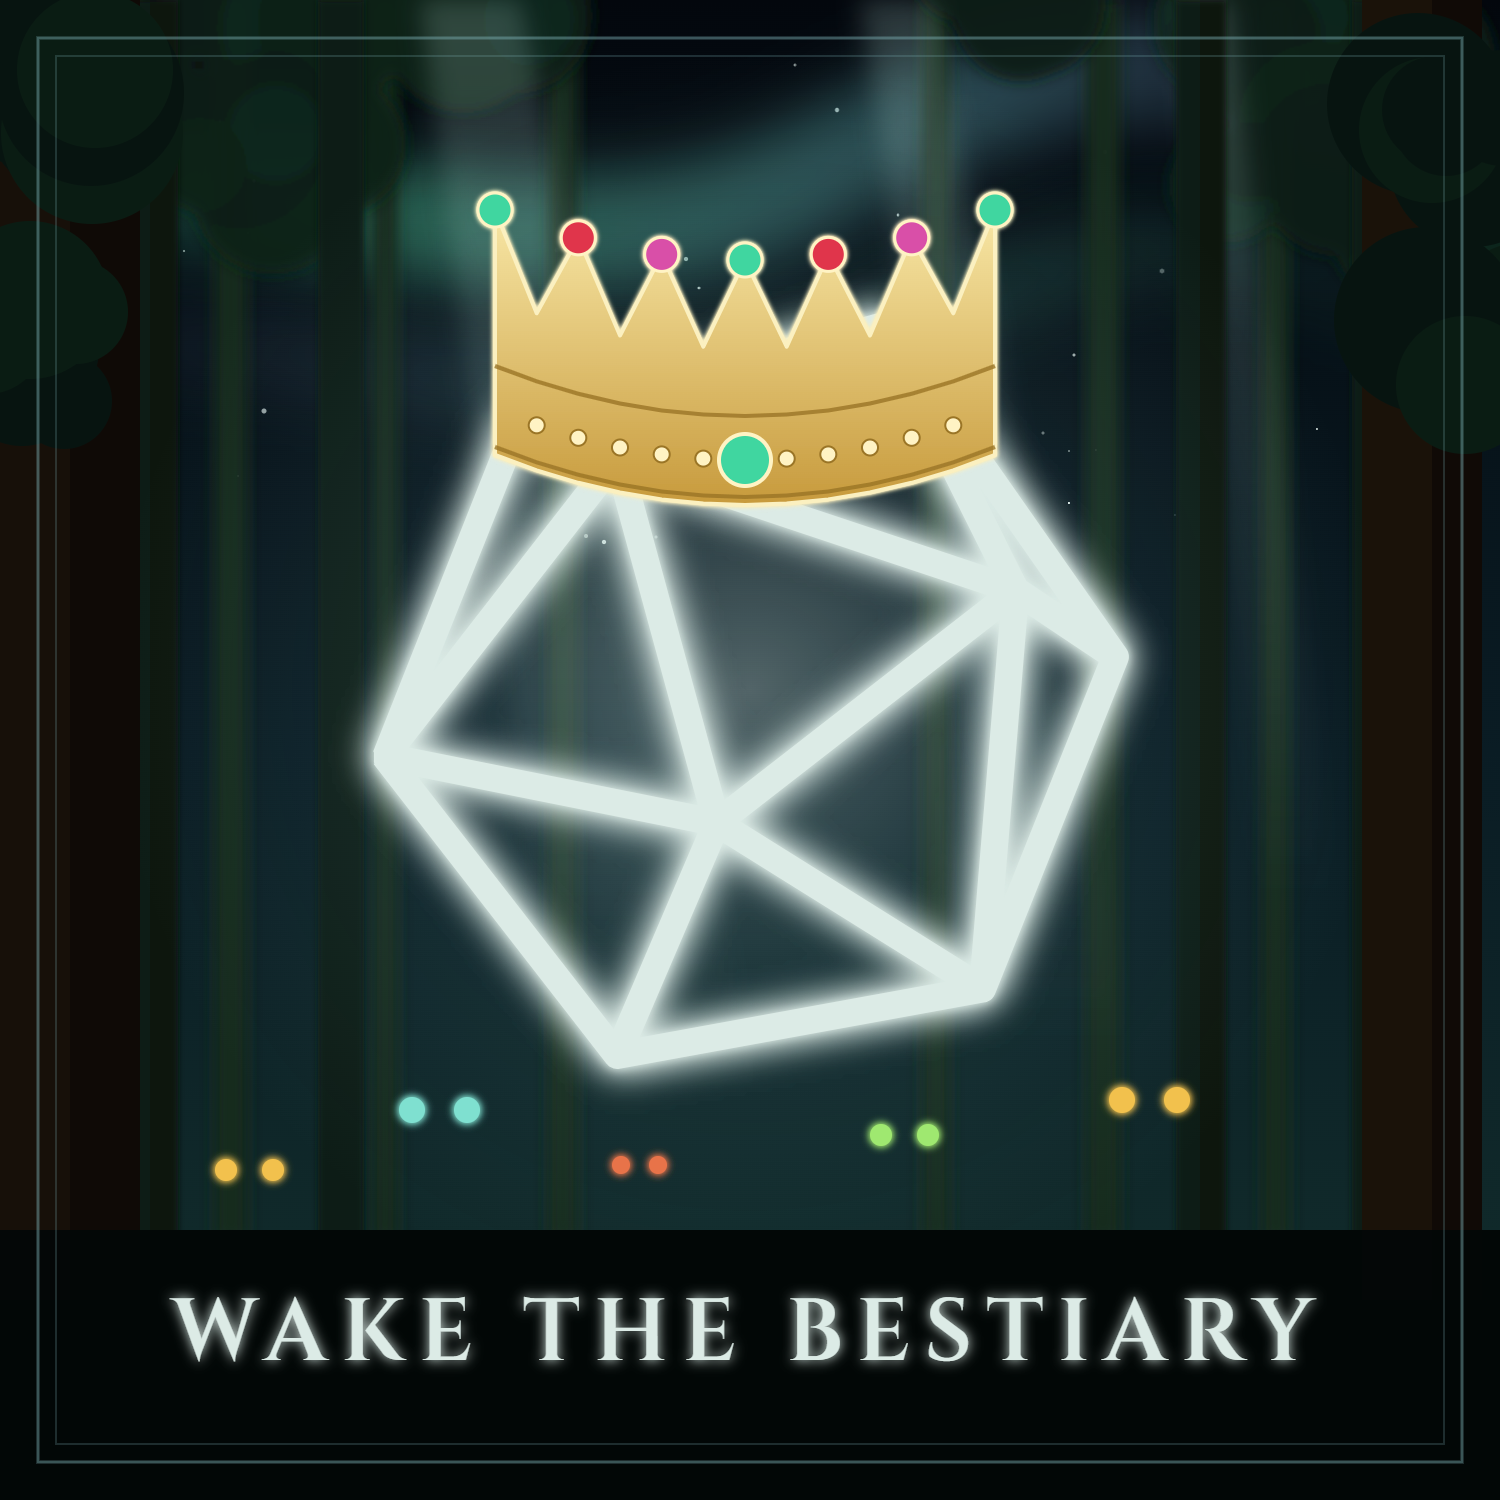
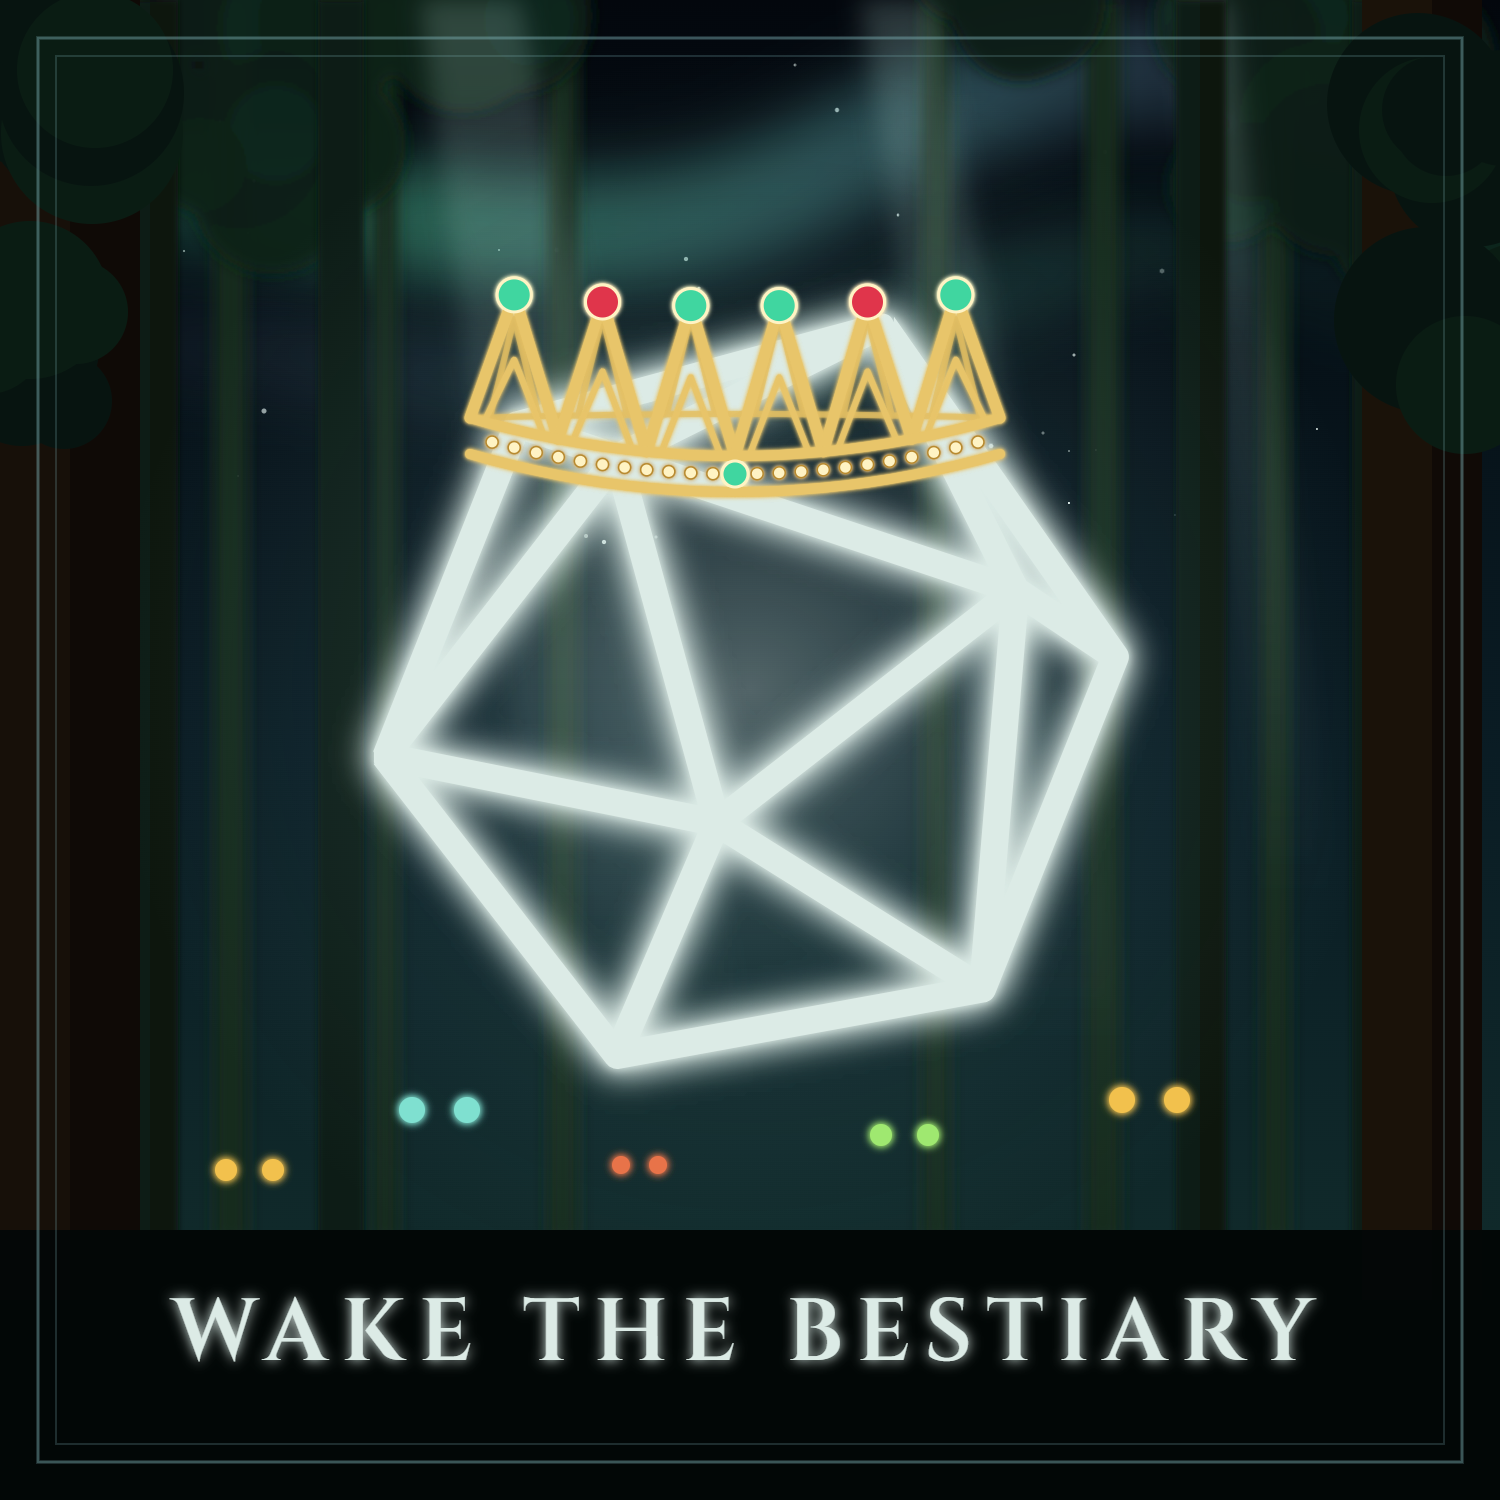
Theme song: a thin openwork crown, after the lattice crown reference

Changed region(s): [[0.3067, 0.1227, 0.6747, 0.3373]]

diff --git a/docs/theme-song/cover.html b/docs/theme-song/cover.html
@@ -207,29 +207,62 @@
 <g transform="translate(750 690) scale(0.8)">
   <use href="#d20" transform="scale(10) translate(-50 -50)" fill="#dcebe6" filter="url(#glow)"/>
 </g>
-<g transform="translate(745 380)" filter="url(#glow)">
-  <polygon points="-250.0,-170.0 -208.3,-66.7 -166.7,-142.2 -125.0,-44.5 -83.3,-125.6 -41.7,-33.4 0.0,-120.0 41.7,-33.4 83.3,-125.6 125.0,-44.5 166.7,-142.2 208.3,-66.7 250.0,-170.0 250.0,75.0 208.3,90.3 166.7,102.8 125.0,112.5 83.3,119.4 41.7,123.6 0.0,125.0 -41.7,123.6 -83.3,119.4 -125.0,112.5 -166.7,102.8 -208.3,90.3 -250.0,75.0 " fill="url(#gold)" stroke="#fbf0c0" stroke-width="4" stroke-linejoin="round"/>
-  <path d="M-250.0 -14.0 L-208.3 1.3 L-166.7 13.8 L-125.0 23.5 L-83.3 30.4 L-41.7 34.6 L0.0 36.0 L41.7 34.6 L83.3 30.4 L125.0 23.5 L166.7 13.8 L208.3 1.3 L250.0 -14.0" fill="none" stroke="#9a7425" stroke-width="4" opacity="0.8"/>
-  <path d="M-250.0 67.0 L-208.3 82.3 L-166.7 94.8 L-125.0 104.5 L-83.3 111.4 L-41.7 115.6 L0.0 117.0 L41.7 115.6 L83.3 111.4 L125.0 104.5 L166.7 94.8 L208.3 82.3 L250.0 67.0" fill="none" stroke="#9a7425" stroke-width="4" opacity="0.8"/>
-  <circle cx="-208.3" cy="45.3" r="8" fill="#fff3c4" stroke="#9a7425" stroke-width="2"/>
-  <circle cx="-166.7" cy="57.8" r="8" fill="#fff3c4" stroke="#9a7425" stroke-width="2"/>
-  <circle cx="-125.0" cy="67.5" r="8" fill="#fff3c4" stroke="#9a7425" stroke-width="2"/>
-  <circle cx="-83.3" cy="74.4" r="8" fill="#fff3c4" stroke="#9a7425" stroke-width="2"/>
-  <circle cx="-41.7" cy="78.6" r="8" fill="#fff3c4" stroke="#9a7425" stroke-width="2"/>
-  <circle cx="0.0" cy="80.0" r="8" fill="#fff3c4" stroke="#9a7425" stroke-width="2"/>
-  <circle cx="41.7" cy="78.6" r="8" fill="#fff3c4" stroke="#9a7425" stroke-width="2"/>
-  <circle cx="83.3" cy="74.4" r="8" fill="#fff3c4" stroke="#9a7425" stroke-width="2"/>
-  <circle cx="125.0" cy="67.5" r="8" fill="#fff3c4" stroke="#9a7425" stroke-width="2"/>
-  <circle cx="166.7" cy="57.8" r="8" fill="#fff3c4" stroke="#9a7425" stroke-width="2"/>
-  <circle cx="208.3" cy="45.3" r="8" fill="#fff3c4" stroke="#9a7425" stroke-width="2"/>
-  <circle cx="-250.0" cy="-170.0" r="17" fill="#3fd6a0" stroke="#fff3c4" stroke-width="3"/>
-  <circle cx="-166.7" cy="-142.2" r="17" fill="#e0364c" stroke="#fff3c4" stroke-width="3"/>
-  <circle cx="-83.3" cy="-125.6" r="17" fill="#d94fa8" stroke="#fff3c4" stroke-width="3"/>
-  <circle cx="0.0" cy="-120.0" r="17" fill="#3fd6a0" stroke="#fff3c4" stroke-width="3"/>
-  <circle cx="83.3" cy="-125.6" r="17" fill="#e0364c" stroke="#fff3c4" stroke-width="3"/>
-  <circle cx="166.7" cy="-142.2" r="17" fill="#d94fa8" stroke="#fff3c4" stroke-width="3"/>
-  <circle cx="250.0" cy="-170.0" r="17" fill="#3fd6a0" stroke="#fff3c4" stroke-width="3"/>
-  <circle cx="0" cy="80.0" r="26" fill="#3fd6a0" stroke="#fff3c4" stroke-width="4"/>
+<g transform="translate(735 430)" filter="url(#glow)">
+  <g fill="none" stroke="#e4bf62" stroke-linecap="round" stroke-linejoin="round" opacity="0.55">
+    <path d="M-265.0 -12.0 L-242.9 -12.6 L-220.8 -13.2 L-198.8 -13.8 L-176.7 -14.2 L-154.6 -14.6 L-132.5 -15.0 L-110.4 -15.3 L-88.3 -15.6 L-66.2 -15.8 L-44.2 -15.9 L-22.1 -16.0 L0.0 -16.0 L22.1 -16.0 L44.2 -15.9 L66.2 -15.8 L88.3 -15.6 L110.4 -15.3 L132.5 -15.0 L154.6 -14.6 L176.7 -14.2 L198.8 -13.8 L220.8 -13.2 L242.9 -12.6 L265.0 -12.0" stroke-width="6"/>
+    <path d="M-245.1 -12.6 L-220.8 -111.2 L-196.5 -13.8" stroke-width="6"/>
+    <path d="M-156.8 -14.6 L-132.5 -113.0 L-108.2 -15.3" stroke-width="6"/>
+    <path d="M-68.5 -15.7 L-44.2 -113.9 L-19.9 -16.0" stroke-width="6"/>
+    <path d="M19.9 -16.0 L44.2 -113.9 L68.5 -15.7" stroke-width="6"/>
+    <path d="M108.2 -15.3 L132.5 -113.0 L156.8 -14.6" stroke-width="6"/>
+    <path d="M196.5 -13.8 L220.8 -111.2 L245.1 -12.6" stroke-width="6"/>
+  </g>
+  <g fill="none" stroke="#e8c56a" stroke-linecap="round" stroke-linejoin="round">
+    <path d="M-265.0 -12.0 L-220.8 -135.1 L-176.7 9.1" stroke-width="11"/>
+    <path d="M-250.0 -9.8 L-220.8 -70.4 L-191.7 4.1" stroke-width="6" opacity="0.85"/>
+    <path d="M-176.7 9.1 L-132.5 -128.0 L-88.3 21.8" stroke-width="11"/>
+    <path d="M-161.7 9.9 L-132.5 -58.6 L-103.4 18.2" stroke-width="6" opacity="0.85"/>
+    <path d="M-88.3 21.8 L-44.2 -124.4 L-0.0 26.0" stroke-width="11"/>
+    <path d="M-73.3 21.1 L-44.2 -52.7 L-15.0 23.9" stroke-width="6" opacity="0.85"/>
+    <path d="M0.0 26.0 L44.2 -124.4 L88.3 21.8" stroke-width="11"/>
+    <path d="M15.0 23.9 L44.2 -52.7 L73.3 21.1" stroke-width="6" opacity="0.85"/>
+    <path d="M88.3 21.8 L132.5 -128.0 L176.7 9.1" stroke-width="11"/>
+    <path d="M103.3 18.2 L132.5 -58.6 L161.6 9.9" stroke-width="6" opacity="0.85"/>
+    <path d="M176.7 9.1 L220.8 -135.1 L265.0 -12.0" stroke-width="11"/>
+    <path d="M191.7 4.1 L220.8 -70.4 L250.0 -9.8" stroke-width="6" opacity="0.85"/>
+  </g>
+  <path d="M-265.0 -12.0 L-242.9 -5.9 L-220.8 -0.4 L-198.8 4.6 L-176.7 9.1 L-154.6 13.1 L-132.5 16.5 L-110.4 19.4 L-88.3 21.8 L-66.2 23.6 L-44.2 24.9 L-22.1 25.7 L0.0 26.0 L22.1 25.7 L44.2 24.9 L66.2 23.6 L88.3 21.8 L110.4 19.4 L132.5 16.5 L154.6 13.1 L176.7 9.1 L198.8 4.6 L220.8 -0.4 L242.9 -5.9 L265.0 -12.0" fill="none" stroke="#e8c56a" stroke-width="10" stroke-linecap="round"/>
+  <path d="M-265.0 24.0 L-242.9 30.1 L-220.8 35.6 L-198.8 40.6 L-176.7 45.1 L-154.6 49.1 L-132.5 52.5 L-110.4 55.4 L-88.3 57.8 L-66.2 59.6 L-44.2 60.9 L-22.1 61.7 L0.0 62.0 L22.1 61.7 L44.2 60.9 L66.2 59.6 L88.3 57.8 L110.4 55.4 L132.5 52.5 L154.6 49.1 L176.7 45.1 L198.8 40.6 L220.8 35.6 L242.9 30.1 L265.0 24.0" fill="none" stroke="#e8c56a" stroke-width="10" stroke-linecap="round"/>
+  <circle cx="-242.9" cy="12.1" r="6" fill="#fff3c4" stroke="#b88a2f" stroke-width="1.5"/>
+  <circle cx="-220.8" cy="17.6" r="6" fill="#fff3c4" stroke="#b88a2f" stroke-width="1.5"/>
+  <circle cx="-198.8" cy="22.6" r="6" fill="#fff3c4" stroke="#b88a2f" stroke-width="1.5"/>
+  <circle cx="-176.7" cy="27.1" r="6" fill="#fff3c4" stroke="#b88a2f" stroke-width="1.5"/>
+  <circle cx="-154.6" cy="31.1" r="6" fill="#fff3c4" stroke="#b88a2f" stroke-width="1.5"/>
+  <circle cx="-132.5" cy="34.5" r="6" fill="#fff3c4" stroke="#b88a2f" stroke-width="1.5"/>
+  <circle cx="-110.4" cy="37.4" r="6" fill="#fff3c4" stroke="#b88a2f" stroke-width="1.5"/>
+  <circle cx="-88.3" cy="39.8" r="6" fill="#fff3c4" stroke="#b88a2f" stroke-width="1.5"/>
+  <circle cx="-66.2" cy="41.6" r="6" fill="#fff3c4" stroke="#b88a2f" stroke-width="1.5"/>
+  <circle cx="-44.2" cy="42.9" r="6" fill="#fff3c4" stroke="#b88a2f" stroke-width="1.5"/>
+  <circle cx="-22.1" cy="43.7" r="6" fill="#fff3c4" stroke="#b88a2f" stroke-width="1.5"/>
+  <circle cx="0.0" cy="44.0" r="6" fill="#fff3c4" stroke="#b88a2f" stroke-width="1.5"/>
+  <circle cx="22.1" cy="43.7" r="6" fill="#fff3c4" stroke="#b88a2f" stroke-width="1.5"/>
+  <circle cx="44.2" cy="42.9" r="6" fill="#fff3c4" stroke="#b88a2f" stroke-width="1.5"/>
+  <circle cx="66.2" cy="41.6" r="6" fill="#fff3c4" stroke="#b88a2f" stroke-width="1.5"/>
+  <circle cx="88.3" cy="39.8" r="6" fill="#fff3c4" stroke="#b88a2f" stroke-width="1.5"/>
+  <circle cx="110.4" cy="37.4" r="6" fill="#fff3c4" stroke="#b88a2f" stroke-width="1.5"/>
+  <circle cx="132.5" cy="34.5" r="6" fill="#fff3c4" stroke="#b88a2f" stroke-width="1.5"/>
+  <circle cx="154.6" cy="31.1" r="6" fill="#fff3c4" stroke="#b88a2f" stroke-width="1.5"/>
+  <circle cx="176.7" cy="27.1" r="6" fill="#fff3c4" stroke="#b88a2f" stroke-width="1.5"/>
+  <circle cx="198.8" cy="22.6" r="6" fill="#fff3c4" stroke="#b88a2f" stroke-width="1.5"/>
+  <circle cx="220.8" cy="17.6" r="6" fill="#fff3c4" stroke="#b88a2f" stroke-width="1.5"/>
+  <circle cx="242.9" cy="12.1" r="6" fill="#fff3c4" stroke="#b88a2f" stroke-width="1.5"/>
+  <circle cx="-220.8" cy="-135.1" r="17" fill="#3fd6a0" stroke="#fff3c4" stroke-width="3"/>
+  <circle cx="-132.5" cy="-128.0" r="17" fill="#e0364c" stroke="#fff3c4" stroke-width="3"/>
+  <circle cx="-44.2" cy="-124.4" r="17" fill="#3fd6a0" stroke="#fff3c4" stroke-width="3"/>
+  <circle cx="44.2" cy="-124.4" r="17" fill="#3fd6a0" stroke="#fff3c4" stroke-width="3"/>
+  <circle cx="132.5" cy="-128.0" r="17" fill="#e0364c" stroke="#fff3c4" stroke-width="3"/>
+  <circle cx="220.8" cy="-135.1" r="17" fill="#3fd6a0" stroke="#fff3c4" stroke-width="3"/>
+  <circle cx="0" cy="44.0" r="13" fill="#3fd6a0" stroke="#fff3c4" stroke-width="3"/>
 </g>
 <rect x="0" y="1230" width="1500" height="270" fill="#020706"/>
 <g filter="url(#eye)">

diff --git a/docs/theme-song/README.md b/docs/theme-song/README.md
@@ -247,14 +247,14 @@ msedge --headless --hide-scrollbars --allow-file-access-from-files --window-size
 If Edge reads `cover.html` as a web address, pass it as a full `file:///` URL instead.
 
 - It is a scene, drawn after the main theme's [cover](https://github.com/DnDGen/.github/blob/main/theme-song/cover.html), like the other songs' covers. The d20 is the head of the Centaur King, large, centred,
-  and a little low in the frame, and it wears his crown level on its brow, as a crown sits on a head in a portrait: gold, with a
-  row of beads, emerald, ruby, and magenta jewels on the points, and the band curving slightly at the front. Around it is a
+  and a little low in the frame, and it wears his crown level on its brow, as a crown sits on a head in a portrait: a thin, elegant, openwork gold crown, after a stock photo of a lattice crown, with a
+  double rail of beads, six slim triangular points each with a smaller one inside, a jewel (emerald or ruby) on each tip, and a gentle curve at the front, so the d20 shows through it. Around it is a
   forest of tall straight trunks at night, in very dark browns and greens: two near trunks at the edges, of different widths,
   sharp and dark, then thinner trunks behind them, blurred more and lighter with distance, with faint leaf masses at the corners
   and a few pale shafts of light from above. Five pairs of glowing circles, the eyes of the bestiary, look out of the dark
   under the aurora. The title is the song's, *Wake the Bestiary*. Earlier covers: v0.1 was only the recoloured d20, too plain;
   v0.2 had a centaur silhouette lifting the d20, which didn't read well; v0.3 had a small crown on the d20's edge, askew;
   v0.4 ringed the d20 with a circular crown over a close forest, with small d20s for eyes; v0.5 had a tilted crown between
-  two pines. None was what was meant.
+  two pines; v0.6 had a level crown, but a solid, heavy one. None was what was meant.
 - The d20 is the dndgen.com loading spinner, from [DnDGen.Web](https://github.com/DnDGen/DnDGen.Web/blob/main/dndgen-web/src/assets/loadingDice.svg), originally from [a gist by hperantunes](https://gist.github.com/hperantunes/f4c2fd407c2ea74c6c9d).
 - The title is set in [Cinzel](https://github.com/NDISCOVER/Cinzel), included as [Cinzel.ttf](Cinzel.ttf) under the [SIL Open Font License](Cinzel-OFL.txt).

diff --git a/specs/002-creaturegen-theme-song/plan.md b/specs/002-creaturegen-theme-song/plan.md
@@ -41,7 +41,7 @@ also `docs/**/*.md` and `docs/**/*.png`, to its output.
   so lines are sung as words. The Centaur King's introduction and sign-off, and the refrain, are the lines not from the README.
 - **D4: Suno link.** Until the maintainer has one, the record says `TODO_SUNO_LINK` and the README
   has no badge, so the link tests fail. The patch's `SUNO_LINK` is replaced at the same time.
-- **D5: Album art.** A scene, like the other songs' covers: the large, centred d20 is the Centaur King's head and wears his crown level on its brow, in a night forest of tall dark trunks (two sharp near ones of different widths, thinner blurred ones behind) with pairs of glowing circles for eyes. Five earlier covers did not work (see the record's Album Art).
+- **D5: Album art.** A scene, like the other songs' covers: the large, centred d20 is the Centaur King's head and wears his thin, openwork crown level on its brow, in a night forest of tall dark trunks (two sharp near ones of different widths, thinner blurred ones behind) with pairs of glowing circles for eyes. Six earlier covers did not work (see the record's Album Art).
 
 ## Project Structure
 
